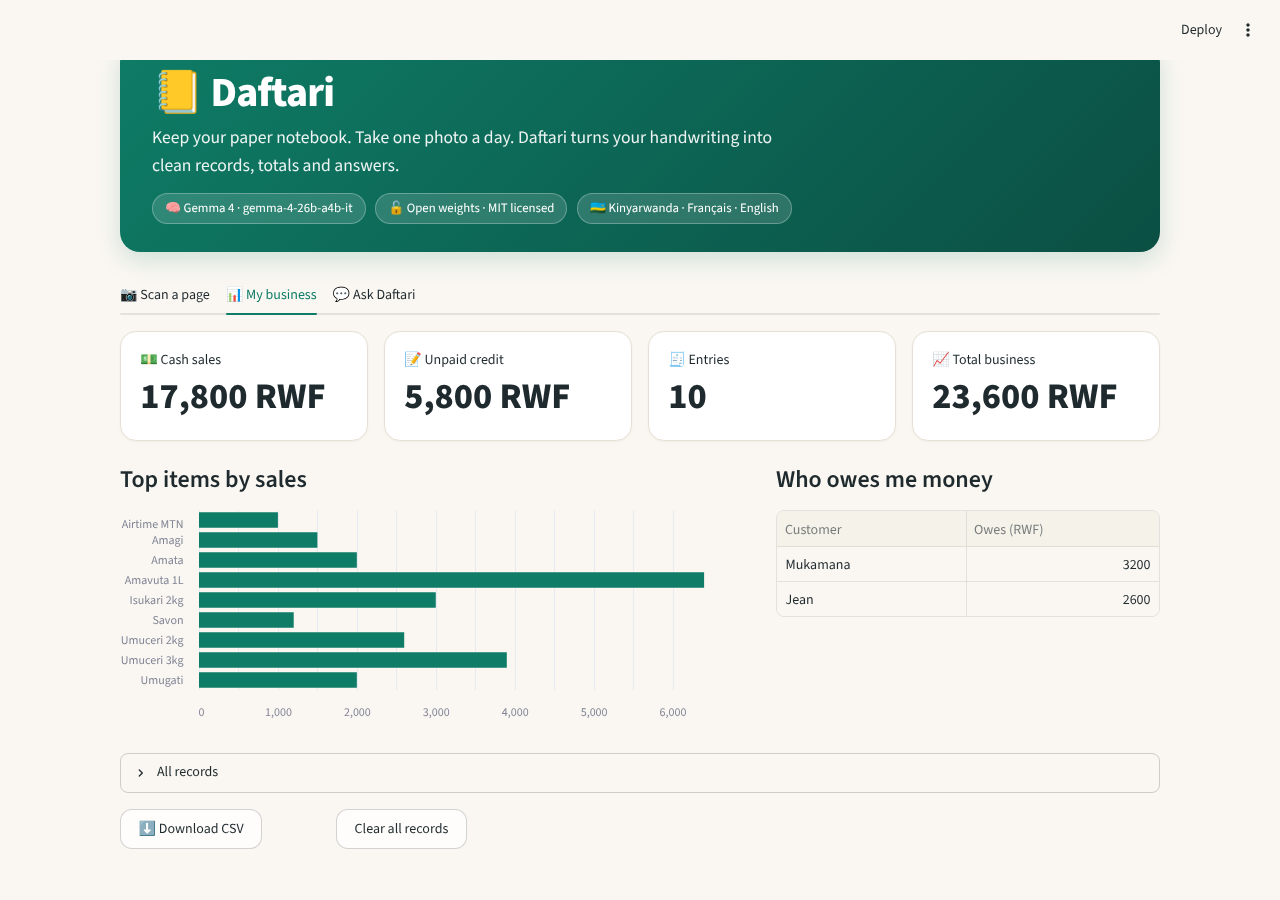
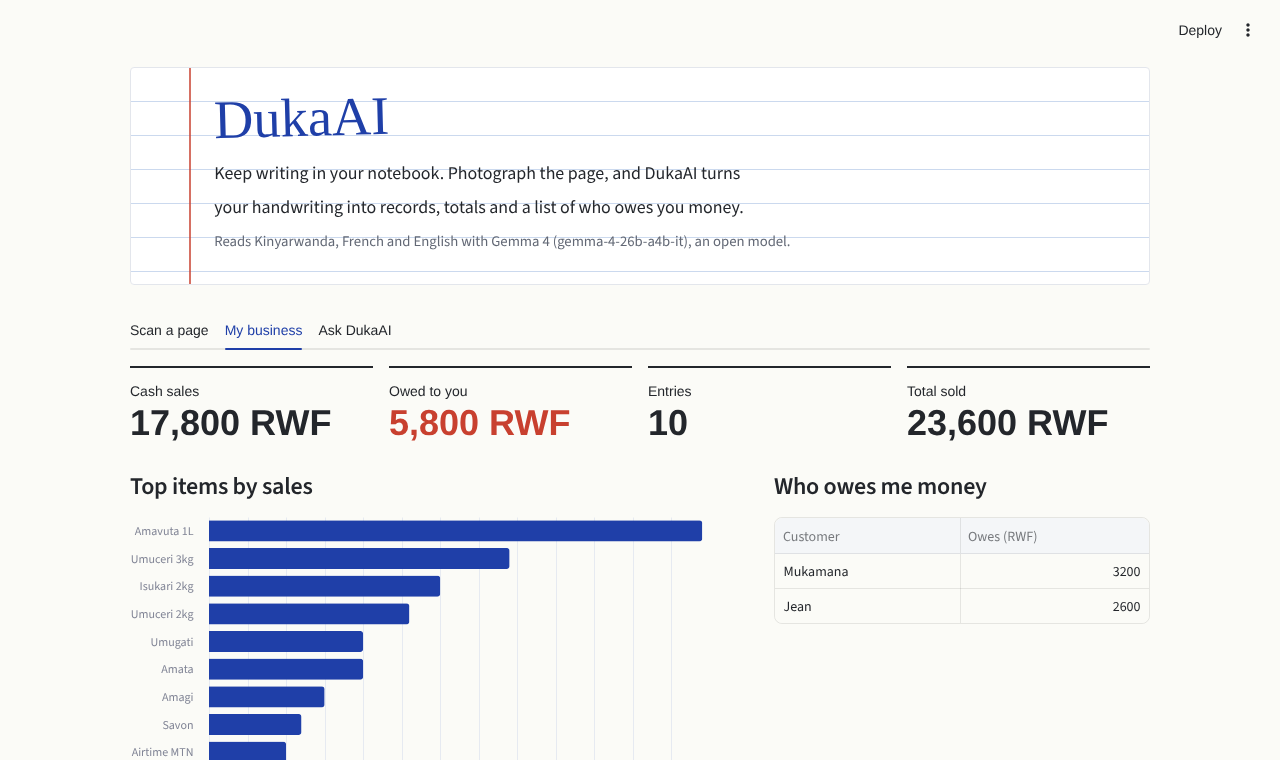
Rename to DukaAI and notebook redesign

diff --git a/app.py b/app.py
@@ -1,4 +1,4 @@
-"""Daftari: turn a photo of a handwritten sales notebook into digital records.
+"""DukaAI: turn a photo of a handwritten sales notebook into digital records.
 
 Powered by Gemma 4 (gemma-4-26b-a4b-it) through the Gemini API.
 Setup: copy .env.example to .env, add your key, then run: streamlit run app.py
@@ -9,6 +9,7 @@ import os
 import re
 import time
 
+import altair as alt
 import pandas as pd
 from PIL import Image, ImageOps
 import streamlit as st
@@ -54,38 +55,47 @@ SAMPLE_ROWS = [
     ["2026-10-31", "Amavuta 1L", 1, 3200, 3200, "Mukamana", "credit"],
 ]
 
-st.set_page_config(page_title="Daftari", page_icon="📒", layout="wide")
+st.set_page_config(page_title="DukaAI", page_icon="📒", layout="wide")
 
 st.markdown(
     """
 <style>
-.block-container {padding-top: 3.2rem; max-width: 1200px;}
+@import url('https://fonts.googleapis.com/css2?family=Kalam:wght@700&family=Figtree:wght@400;500;600;700;800&display=swap');
+:root {
+  --paper: #FBFBF7; --rule: #CBD9EE; --ink: #1F3FA8; --margin: #C8402F;
+  --graphite: #23262B; --muted: #626875; --line: #E3E6EC;
+}
+html, body, p, li, label, input, textarea, button p, [data-testid="stMetricValue"], [data-baseweb="tab"] p {font-family: 'Figtree', sans-serif;}
+.block-container {padding-top: 3.2rem; max-width: 1180px;}
+h1, h2, h3, h4 {font-family: 'Figtree', sans-serif; color: var(--graphite); letter-spacing: -0.01em;}
+
+/* The one bold element: a strip of ruled exercise-book paper */
 .hero {
-  background: linear-gradient(135deg, #0E7C66 0%, #0B4F43 100%);
-  color: #fff; padding: 1.8rem 2rem; border-radius: 20px; margin-bottom: 1.4rem;
-  box-shadow: 0 8px 24px rgba(14,124,102,.18);
+  position: relative; padding: 1.4rem 1.6rem 1.6rem 5.2rem; margin-bottom: 1.6rem;
+  background-color: #FFFFFF;
+  background-image: repeating-linear-gradient(to bottom, transparent 0, transparent 33px, var(--rule) 33px, var(--rule) 34px);
+  border: 1px solid var(--line); border-radius: 4px;
 }
-.hero .title {font-size: 2.6rem; font-weight: 800; letter-spacing: -0.02em; line-height: 1.1;}
-.hero .tagline {font-size: 1.1rem; opacity: .92; margin-top: .4rem; max-width: 640px;}
-.badge {
-  display: inline-block; background: rgba(255,255,255,.14); border: 1px solid rgba(255,255,255,.28);
-  padding: .25rem .75rem; border-radius: 999px; font-size: .8rem; margin: .9rem .4rem 0 0;
-}
-.card {
-  background: #FFFFFF; border: 1px solid #E6DFD3; border-radius: 16px;
-  padding: 1.1rem 1.3rem; margin-bottom: 1rem;
-}
-.card h4 {margin: 0 0 .3rem 0;}
-.muted {color: #6F685C; font-size: .92rem;}
-div[data-testid="stMetric"] {
-  background: #FFFFFF; border: 1px solid #E6DFD3; border-radius: 16px;
-  padding: 1rem 1.2rem; box-shadow: 0 1px 3px rgba(0,0,0,.04);
-}
-div[data-testid="stMetricValue"] {font-weight: 800;}
-.stButton > button, .stDownloadButton > button {border-radius: 12px; font-weight: 600; padding: .5rem 1.1rem;}
+.hero::before {content: ""; position: absolute; top: 0; bottom: 0; left: 3.6rem; width: 2px; background: var(--margin); opacity: .75;}
+.hero .title {font-family: 'Kalam', 'Segoe Print', 'Bradley Hand', cursive; font-size: 3.4rem; line-height: 1; color: var(--ink); transform: rotate(-1.5deg); display: inline-block;}
+.hero .tagline {font-size: 1.12rem; color: var(--graphite); margin-top: .7rem; max-width: 60ch; line-height: 34px;}
+.hero .meta {font-size: .92rem; color: var(--muted); line-height: 34px;}
+
+.step h4 {margin: 0; font-size: 1.15rem;}
+.step p {color: var(--muted); margin: .2rem 0 .9rem 0; font-size: .95rem;}
+
+/* Metrics: plain figures on a rule, no boxes */
+div[data-testid="stMetric"] {border-top: 2px solid var(--graphite); padding-top: .6rem;}
+div[data-testid="stMetricLabel"] p {font-size: .9rem; color: var(--muted); font-weight: 500;}
+div[data-testid="stMetricValue"] {font-weight: 800; color: var(--graphite); font-variant-numeric: tabular-nums;}
+.st-key-debt div[data-testid="stMetricValue"] {color: var(--margin);}
+
+.stButton > button, .stDownloadButton > button {border-radius: 6px; font-weight: 600;}
 .stTabs [data-baseweb="tab"] {font-weight: 600; font-size: 1rem;}
-.footer {text-align: center; color: #8A8273; font-size: .85rem; margin-top: 2.5rem;}
-.footer a {color: #0E7C66;}
+.muted {color: var(--muted); font-size: .95rem;}
+.footer {color: var(--muted); font-size: .88rem; margin-top: 3rem; border-top: 1px solid var(--line); padding-top: 1rem;}
+.footer a {color: var(--ink);}
+@media (max-width: 640px) {.hero {padding-left: 3.4rem;} .hero::before {left: 2.2rem;} .hero .title {font-size: 2.6rem;}}
 </style>
 """,
     unsafe_allow_html=True,
@@ -195,18 +205,16 @@ if "chat" not in st.session_state:
 st.markdown(
     f"""
 <div class="hero">
-  <div class="title">📒 Daftari</div>
-  <div class="tagline">Keep your paper notebook. Take one photo a day.
-  Daftari turns your handwriting into clean records, totals and answers.</div>
-  <span class="badge">🧠 Gemma 4 · {MODEL}</span>
-  <span class="badge">🔓 Open weights · MIT licensed</span>
-  <span class="badge">🇷🇼 Kinyarwanda · Français · English</span>
+  <div class="title">DukaAI</div>
+  <div class="tagline">Keep writing in your notebook. Photograph the page, and DukaAI turns
+  your handwriting into records, totals and a list of who owes you money.</div>
+  <div class="meta">Reads Kinyarwanda, French and English with Gemma 4 ({MODEL}), an open model.</div>
 </div>
 """,
     unsafe_allow_html=True,
 )
 
-tab_scan, tab_dash, tab_ask = st.tabs(["📷  Scan a page", "📊  My business", "💬  Ask Daftari"])
+tab_scan, tab_dash, tab_ask = st.tabs(["Scan a page", "My business", "Ask DukaAI"])
 
 # ---------- Tab 1: Scan ----------
 with tab_scan:
@@ -214,8 +222,8 @@ with tab_scan:
 
     with left:
         st.markdown(
-            '<div class="card"><h4>1 · Your notebook page</h4>'
-            '<div class="muted">Upload a photo, or use your phone camera.</div></div>',
+            '<div class="step"><h4>1. Photograph the page</h4>'
+            '<p>Upload a photo of today\'s page, or use your phone camera.</p></div>',
             unsafe_allow_html=True,
         )
         use_camera = st.toggle("Use camera", value=False)
@@ -230,7 +238,7 @@ with tab_scan:
         )
         if source:
             st.image(source, width="stretch")
-            if st.button("✨ Read this page", type="primary", width="stretch"):
+            if st.button("Read this page", type="primary", width="stretch"):
                 with st.spinner("Gemma is reading the handwriting..."):
                     try:
                         t0 = time.perf_counter()
@@ -246,9 +254,8 @@ with tab_scan:
 
     with right:
         st.markdown(
-            '<div class="card"><h4>2 · Check and save</h4>'
-            '<div class="muted">The AI does the heavy lifting. You stay in control: '
-            "fix any cell before saving.</div></div>",
+            '<div class="step"><h4>2. Check and save</h4>'
+            "<p>Gemma fills in the table. Fix any cell that looks wrong, then save.</p></div>",
             unsafe_allow_html=True,
         )
         if "draft" in st.session_state:
@@ -256,7 +263,7 @@ with tab_scan:
             m1, m2, m3 = st.columns(3)
             m1.metric("Lines read", len(draft))
             m2.metric("Cash", rwf(draft.loc[draft["status"] == "paid", "total"].sum()))
-            m3.metric("Credit", rwf(draft.loc[draft["status"] == "credit", "total"].sum()))
+            m3.metric("On credit", rwf(draft.loc[draft["status"] == "credit", "total"].sum()))
             edited = st.data_editor(
                 draft,
                 num_rows="dynamic",
@@ -272,7 +279,7 @@ with tab_scan:
                     "status": st.column_config.SelectboxColumn("Status", options=["paid", "credit"]),
                 },
             )
-            if st.button("💾 Save to my records", type="primary", width="stretch"):
+            if st.button("Save to my records", type="primary", width="stretch"):
                 st.session_state.records = pd.concat(
                     [st.session_state.records, clean_frame(edited)], ignore_index=True
                 )
@@ -280,13 +287,13 @@ with tab_scan:
                 st.toast(f"Saved {len(edited)} entries", icon="✅")
                 st.rerun()
         else:
-            st.info("Your digital page will appear here after Gemma reads the photo.")
+            st.markdown('<p class="muted">The table appears here once Gemma has read your photo.</p>', unsafe_allow_html=True)
 
 # ---------- Tab 2: Dashboard ----------
 with tab_dash:
     df = st.session_state.records
     if df.empty:
-        st.info("No records yet. Scan a notebook page first.")
+        st.markdown('<p class="muted">No records yet. Scan your first notebook page to see your totals here.</p>', unsafe_allow_html=True)
         if st.button("Load sample data (for exploring the dashboard)"):
             st.session_state.records = clean_frame(pd.DataFrame(SAMPLE_ROWS, columns=COLUMNS))
             st.rerun()
@@ -294,16 +301,23 @@ with tab_dash:
         paid = df.loc[df["status"] == "paid", "total"].sum()
         credit = df.loc[df["status"] == "credit", "total"].sum()
         c1, c2, c3, c4 = st.columns(4)
-        c1.metric("💵 Cash sales", rwf(paid))
-        c2.metric("📝 Unpaid credit", rwf(credit))
-        c3.metric("🧾 Entries", len(df))
-        c4.metric("📈 Total business", rwf(paid + credit))
+        c1.metric("Cash sales", rwf(paid))
+        with c2.container(key="debt"):
+            st.metric("Owed to you", rwf(credit))
+        c3.metric("Entries", len(df))
+        c4.metric("Total sold", rwf(paid + credit))
 
         g1, g2 = st.columns([1.5, 1], gap="large")
         with g1:
             st.markdown("#### Top items by sales")
-            top = df.groupby("item")["total"].sum().sort_values(ascending=False).head(10)
-            st.bar_chart(top, color="#0E7C66", horizontal=True)
+            top = (df.groupby("item")["total"].sum().sort_values(ascending=False)
+                   .head(10).reset_index())
+            chart = alt.Chart(top).mark_bar(color="#1F3FA8", cornerRadiusEnd=3).encode(
+                x=alt.X("total:Q", title="RWF"),
+                y=alt.Y("item:N", sort="-x", title=None),
+                tooltip=["item", alt.Tooltip("total:Q", format=",.0f", title="RWF")],
+            ).properties(height=34 * len(top) + 20)
+            st.altair_chart(chart, width="stretch")
         with g2:
             st.markdown("#### Who owes me money")
             debtors = (
@@ -315,7 +329,7 @@ with tab_dash:
                 .rename(columns={"customer": "Customer", "total": "Owes (RWF)"})
             )
             if debtors.empty:
-                st.success("Nobody owes you money. 🎉")
+                st.markdown('<p class="muted">Nobody owes you money.</p>', unsafe_allow_html=True)
             else:
                 st.dataframe(debtors, hide_index=True, width="stretch")
 
@@ -323,7 +337,7 @@ with tab_dash:
             st.dataframe(df, hide_index=True, width="stretch")
         b1, b2 = st.columns([1, 4])
         b1.download_button(
-            "⬇ Download CSV", df.to_csv(index=False), "daftari_records.csv", "text/csv"
+            "Download CSV", df.to_csv(index=False), "dukaai_records.csv", "text/csv"
         )
         if b2.button("Clear all records"):
             st.session_state.records = pd.DataFrame(columns=COLUMNS)
@@ -337,12 +351,12 @@ with tab_ask:
         st.info("Save some records first, then ask questions about your business.")
     else:
         st.markdown(
-            '<div class="muted">Try: “Who owes me money?” · “What sold most today?” · '
-            "“Combien j'ai vendu aujourd'hui ?”</div>",
+            '<p class="muted">Try asking: “Who owes me money?”, “What sold most today?” or '
+            "“Combien j'ai vendu aujourd'hui ?”</p>",
             unsafe_allow_html=True,
         )
         for role, msg in st.session_state.chat:
-            with st.chat_message(role, avatar="🧑🏾" if role == "user" else "📒"):
+            with st.chat_message(role, avatar="🧑🏾" if role == "user" else "📓"):
                 st.write(msg)
         q = st.chat_input("Ask about your business in English, Français or Kinyarwanda")
         if q:
@@ -356,7 +370,7 @@ with tab_ask:
             st.rerun()
 
 st.markdown(
-    f'<div class="footer">Built at Hacktoberfest Hack Day Kigali 2026 · Powered by Gemma 4 via the Gemini API · '
-    f'<a href="{REPO_URL}" target="_blank">Open source on GitHub</a></div>',
+    f'<div class="footer">Built at Hacktoberfest Hack Day Kigali 2026. Open source under MIT, '
+    f'<a href="{REPO_URL}" target="_blank">view the code on GitHub</a>.</div>',
     unsafe_allow_html=True,
 )

diff --git a/README.md b/README.md
@@ -1,8 +1,8 @@
-# 📒 dukaAI
+# 📒 DukaAI
 
 **Keep your paper notebook. Take one photo. Get your business records, totals and answers.**
 
-dukaAI turns the handwritten sales notebook every small shop already uses into clean digital records and business insights, from a single phone photo. Powered by **Gemma 4**, an open-weight model, through the Gemini API.
+DukaAI turns the handwritten sales notebook every small shop already uses into clean digital records and business insights, from a single phone photo. Powered by **Gemma 4**, an open-weight model, through the Gemini API.
 
 🔗 **Live demo:** [daftari-zu84.onrender.com](https://daftari-zu84.onrender.com/)
 *(Hosted on Render's free tier: the first load can take up to a minute while the server wakes up.)*
@@ -10,7 +10,7 @@ dukaAI turns the handwritten sales notebook every small shop already uses into c
 Built at **Hacktoberfest Hack Day Kigali 2026** (Build54 Africa, ALX Rwanda, GDG Rwanda, MLH).
 Submitted to: **Best Use of Gemma 4** and **Best Open-Source AI Project**.
 
-![dukaAI dashboard](docs/dashboard.png)
+![DukaAI dashboard](docs/dashboard.png)
 
 ## The problem
 
@@ -18,7 +18,7 @@ Most small businesses in Rwanda (boutiques, market stalls, butcheries, salons) r
 
 ## The solution
 
-dukaAI does not ask owners to change their habit. They keep writing in their notebook and take one photo a day. dukaAI:
+DukaAI does not ask owners to change their habit. They keep writing in their notebook and take one photo a day. DukaAI:
 
 1. **Reads the handwriting**, mixing Kinyarwanda, French and English, including local terms like *ideni* (debt) and shorthand like *1.5k*
 2. **Builds a structured table**: date, item, quantity, unit price, total, customer, paid or credit
@@ -40,7 +40,7 @@ Model: **`gemma-4-26b-a4b-it`** (Gemma 4, open weights) via the Gemini API, usin
 | `ask_question()` | Answers questions grounded only in the saved records, in the user's language |
 | `generate()` | Shared call with thinking off, temperature 0 and capped output for fast, consistent answers |
 
-Because Gemma is open weight, dukaAI can later run fully offline on a local device, which matters for shops with unreliable internet, and avoids lock-in to a single provider.
+Because Gemma is open weight, DukaAI can later run fully offline on a local device, which matters for shops with unreliable internet, and avoids lock-in to a single provider.
 
 ## Performance
 
